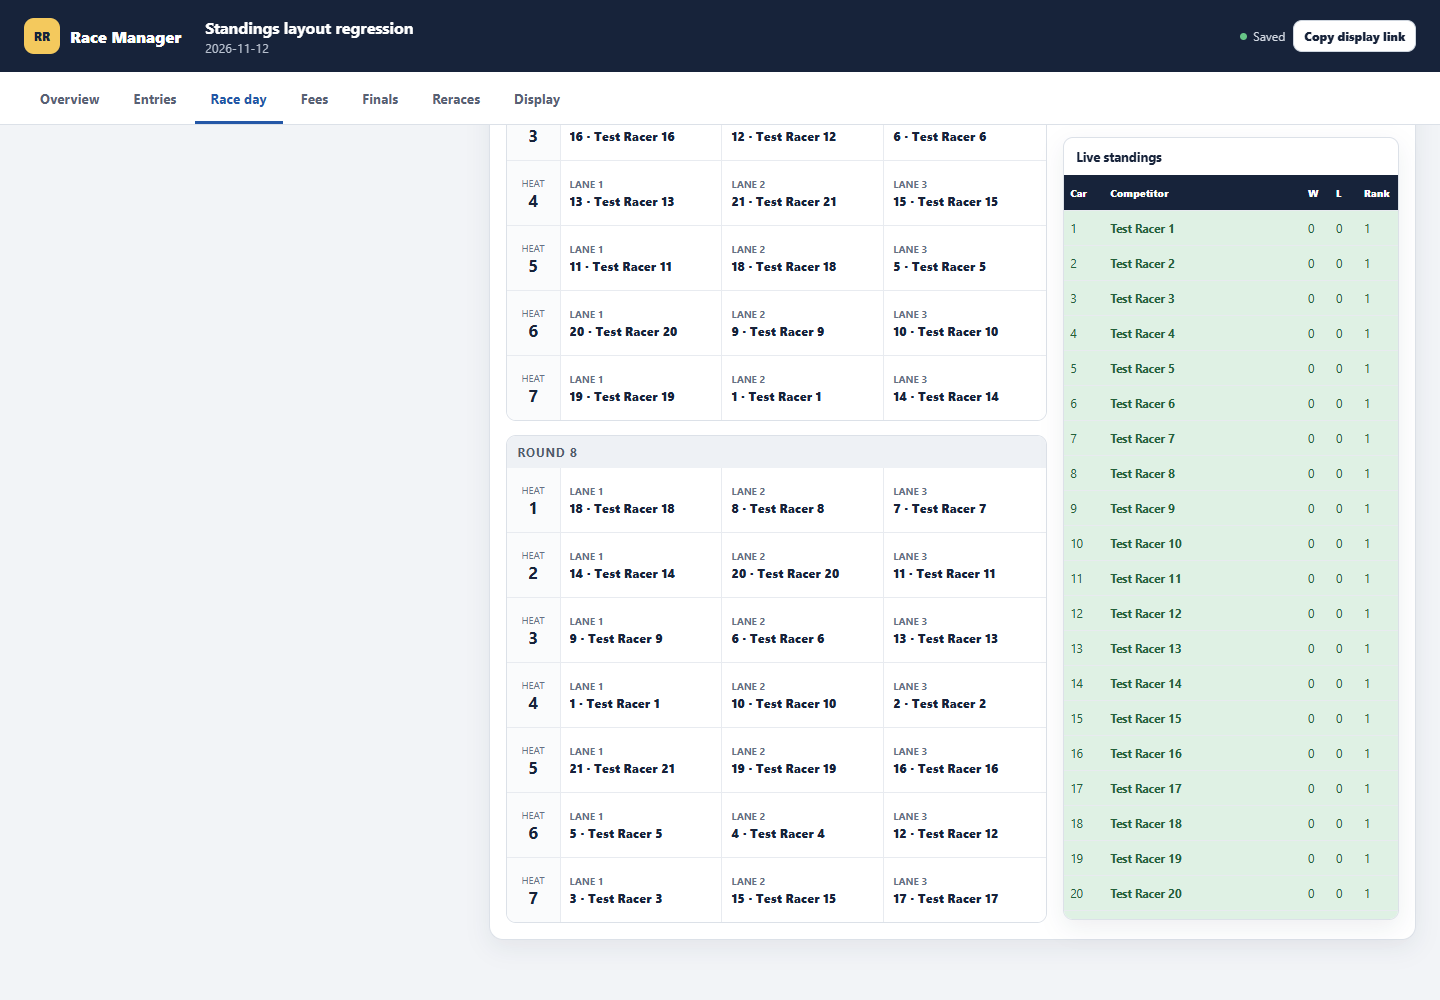
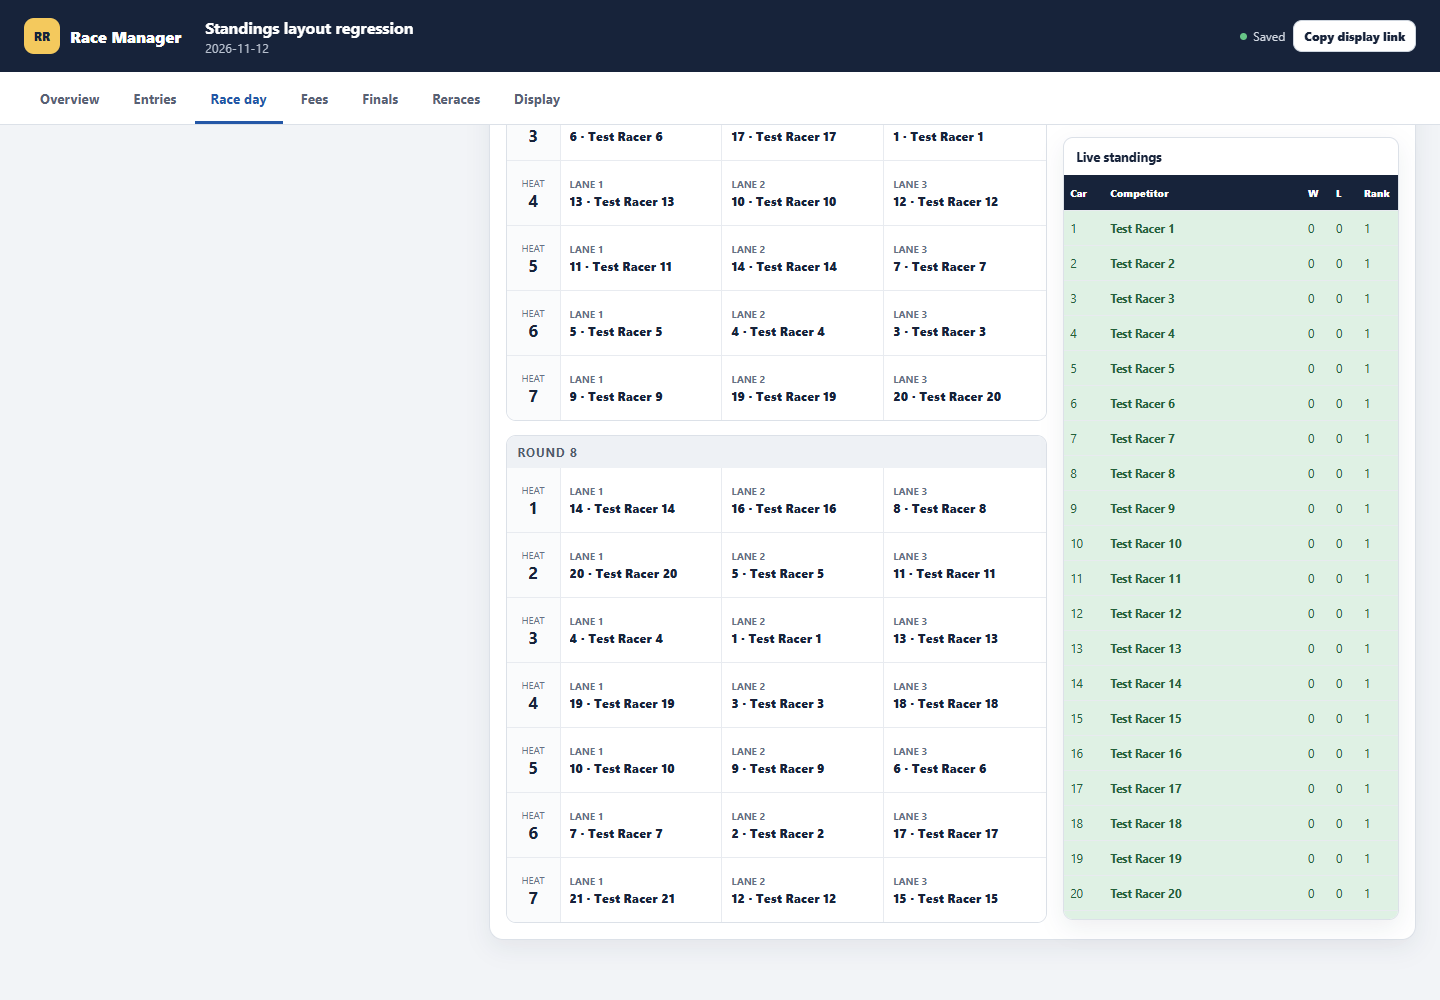
docs: record verified v1.1.1 production release

diff --git a/webapp/docs/TESTING.md b/webapp/docs/TESTING.md
@@ -11,18 +11,18 @@
 
 Generated JSON evidence is written under `artifacts/` and is intentionally not versioned. Release screenshots are kept under `docs/screenshots/` and are versioned with the changelog.
 
-## v1.1.1 candidate — 12 November 2026
+## v1.1.1 production - 12 November 2026
 
 - Unit tests: **PASS**, 14 tests.
 - Production build and TypeScript: **PASS**.
 - Standings browser regression: **PASS**, seven viewports in local Chrome on Windows. Run `npm run test:standings` with `BASE_URL` set to the candidate server. The test intercepts its event API and uses an isolated synthetic event, so no live race is modified.
 - Standard local desktop/mobile E2E: **PASS**, including shared-owner fees, main scoring, and the four-car rerace, with zero browser errors. This local run does not verify deployed storage.
-- Required production standard and deployed concurrency E2E: **PENDING** until deployment.
-- Production deployment: **NOT DEPLOYED**.
+- Production standard and deployed concurrency E2E: **PASS** on the permanent URL, including durable storage, independent brackets, 200/409 conflict handling, 401 unauthorized writes, and zero browser errors.
+- Production deployment: `6af54ff84554aa46f4382765`. Preview and production standings checks passed across all seven viewports; desktop and mobile screenshots inspected.
 
-The standings regression covers 1440 × 1000, 1100 × 800, 1024 × 768, 390 × 844, 320 × 640, 844 × 390, and 320 × 300 viewports, plus scoring/clearing, all 21 competitors, keyboard expand/collapse, print output, and unauthenticated read-only public display. `CHROME_PATH` can select the browser executable explicitly. Desktop/mobile screenshots under `docs/screenshots/v1.1.1-standings-*.png` were visually inspected.
+The standings regression covers 1440 x 1000, 1100 x 800, 1024 x 768, 390 x 844, 320 x 640, 844 x 390, and 320 x 300 viewports, plus scoring/clearing, all 21 competitors, keyboard expand/collapse, print output, and unauthenticated read-only public display. `CHROME_PATH` can select the browser executable explicitly. Desktop/mobile screenshots under `docs/screenshots/v1.1.1-standings-*.png` were visually inspected.
 
-## v1.1.0 production acceptance — 11 September 2026
+## v1.1.0 production acceptance - 11 September 2026
 
 Target: <https://round-robin-race-manager.netlify.app>
 
@@ -34,8 +34,8 @@ Production deploy: `6aa37ded9b7335b5874031de`
 - Build: **PASS**.
 - Standard production E2E: **PASS**.
   - Durable deployed storage confirmed.
-  - Desktop viewport: 1440 × 1000.
-  - Mobile viewport: 390 × 844.
+  - Desktop viewport: 1440 x 1000.
+  - Mobile viewport: 390 x 844.
   - Four cars with a shared owner retained.
   - Three owner fee rows produced; four shared-owner entries aggregated correctly.
   - Eight main heats and six four-car rerace heats produced.
@@ -53,10 +53,10 @@ Production deploy: `6aa37ded9b7335b5874031de`
 
 ### Visual evidence
 
-- [`v1.1.0-bracket-a.png`](screenshots/v1.1.0-bracket-a.png) — Bracket A independently saved with six cars.
-- [`v1.1.0-bracket-b.png`](screenshots/v1.1.0-bracket-b.png) — Bracket B independently saved with six cars.
-- [`v1.1.0-simultaneous-results.png`](screenshots/v1.1.0-simultaneous-results.png) — a saved result after simultaneous operation.
-- [`v1.1.0-conflict-protection.png`](screenshots/v1.1.0-conflict-protection.png) — same-bracket collision surfaced as a scoped decision.
+- [`v1.1.0-bracket-a.png`](screenshots/v1.1.0-bracket-a.png) - Bracket A independently saved with six cars.
+- [`v1.1.0-bracket-b.png`](screenshots/v1.1.0-bracket-b.png) - Bracket B independently saved with six cars.
+- [`v1.1.0-simultaneous-results.png`](screenshots/v1.1.0-simultaneous-results.png) - a saved result after simultaneous operation.
+- [`v1.1.0-conflict-protection.png`](screenshots/v1.1.0-conflict-protection.png) - same-bracket collision surfaced as a scoped decision.
 
 The screenshots were captured from the permanent production URL and visually checked for saved status, roster retention, result display, conflict clarity, and layout integrity.
 
@@ -68,3 +68,4 @@ The screenshots were captured from the permanent production URL and visually che
 4. Resolving one bracket conflict does not modify another bracket.
 5. An empty or unused Bracket B does not block Bracket A.
 6. A delayed Bracket B start does not reset a completed Bracket A.
+

diff --git a/webapp/CHANGELOG.md b/webapp/CHANGELOG.md
@@ -2,7 +2,7 @@
 
 All production changes to Round Robin Race Manager are recorded here using semantic versioning.
 
-## [1.1.1] — Unreleased
+## [1.1.1] - 2026-11-12
 
 ### Fixed
 
@@ -16,8 +16,8 @@ All production changes to Round Robin Race Manager are recorded here using seman
 - 14 domain and synchronization unit tests passed; TypeScript and production build passed.
 - Isolated seven-viewport Chrome regression passed for pinning through the final round, all 21 competitors, score/clear updates, keyboard collapse/expand, printing, and unauthenticated public display.
 - Standard local desktop/mobile E2E passed with zero browser errors. Desktop and mobile release screenshots were inspected.
-- Production standard E2E and deployed concurrency E2E remain pending until deployment. The cloud browser limitation was resolved by testing the candidate locally on Windows.
-- No production deployment has been made for this candidate.
+- Preview and permanent production URL passed standings, standard desktop/mobile E2E, and deployed concurrency E2E, with zero browser errors. Atomic same-bracket writes returned 200/409; unauthorized writes returned 401.
+- Production deploy: `6af54ff84554aa46f4382765`, from merged main commit `21e7cf9a9961ab334d24040e8b23cc7da2ad54cb`. Existing functions included; validation used isolated test events.
 
 ### Screenshots
 
@@ -34,7 +34,7 @@ Compact standings remain visible above phone scoring controls:
 - Browser tests accept `CHROME_PATH` and detect common Windows, macOS, and Linux Chrome installations.
 - Concurrency screenshots use the package version, preserving earlier release evidence.
 
-## [1.1.0] — 2026-09-11
+## [1.1.0] - 2026-09-11
 
 ### Added
 
@@ -94,10 +94,11 @@ Same-bracket conflict protected from data loss:
 
 ![Scoped same-bracket conflict](docs/screenshots/v1.1.0-conflict-protection.png)
 
-## [1.0.0] — 2026-09-10
+## [1.0.0] - 2026-09-10
 
 ### Added
 
 - Initial hosted React/Vite race manager based on the verified Excel workflow.
 - Four classes, six brackets, main racing, finals, reraces, rankings, W/L records, owner-based fees, backup/restore, CSV export, offline copy, private admin links, and read-only public links.
 - Duplicate owner names supported while retaining unique car-number identity.
+
